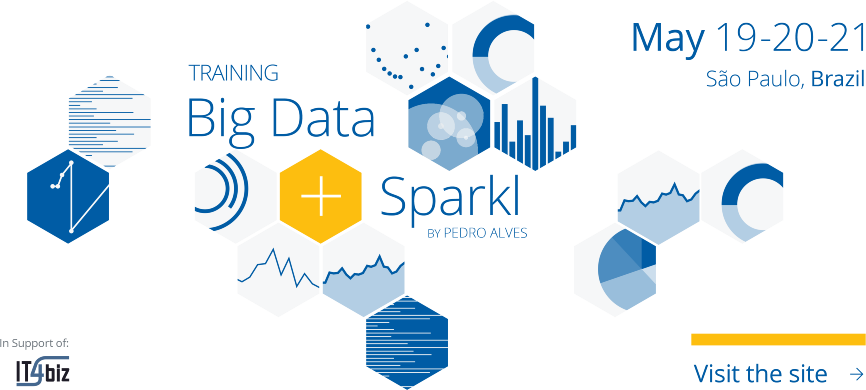
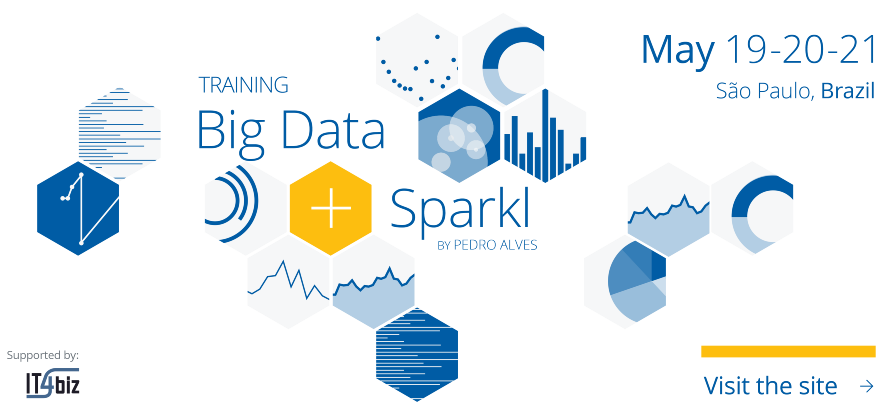
added development guide links, replaced bigdata_sparkl header image

diff --git a/marketplace/plugins/index.html b/marketplace/plugins/index.html
@@ -139,7 +139,8 @@
                         <div>
                           <img src="../../img/marketplace-register.png" alt="">
                           <p class="submit-title">Submit your plugins</p>
-                          <p class="submit-description">Simple and quick.<br><a href="https://github.com/pentaho/marketplace-metadata" target="_blank">View info</a></p>
+                          <p class="submit-description">Simple and quick.
+                            <br><a href="https://github.com/pentaho/marketplace-metadata" target="_blank">View info</a></p>
                         </div>
                       </div>
                     </div>
@@ -160,6 +161,14 @@
                           <p class="submit-description">All support you need.<br><a href="http://forums.pentaho.com/forumdisplay.php?289-BI-Platform-Developer" target="_blank">Forums</a></p>
                         </div>
                       </div>
+                    </div>
+                  </div>
+                  <div class="row text-center newLanguage background-grey" style="margin-bottom: 30px;" id="startNewLang">
+                    <div class="col-lg-8 col-lg-offset-1">
+                      <p>Check the Development Standards, Guidelines and Best Practices</p>
+                    </div>
+                    <div class="col-lg-3">
+                      <a href="http://wiki.pentaho.com/display/PEOpen/Development+Standards%2C+Guidelines+and+Best+Practices" class="btn btn-default btn-green" id="getStartedPropose" target="_blank">Development Guide</a>
                     </div>
                   </div>
                 </div>
@@ -213,7 +222,6 @@
                             <div>
                               <img src="../../img/marketplace-how-to.png" alt="">
                               <p class="submit-title">Develop plugins</p>
-                              <p class="submit-description">All info to setup a new plugin.</p>
                               <p class="submit-description">All info to setup a new plugin.<br><a href="http://wiki.pentaho.com/display/ServerDoc2x/Developing+Plugins" target="_blank">View info</a></p>
                             </div>
                           </div>
@@ -223,7 +231,9 @@
                             <div>
                               <img src="../../img/marketplace-register.png" alt="">
                               <p class="submit-title">Submit your plugins</p>
-                              <p class="submit-description">Simple and quick.<br><a href="https://github.com/pentaho/marketplace-metadata" target="_blank">View info</a></p>
+                              <p class="submit-description">Simple and quick.
+                                <br><a href="http://wiki.pentaho.com/display/PEOpen/Development+Standards%2C+Guidelines+and+Best+Practices" target="_blank">Development Guide</a>
+                                <br><a href="https://github.com/pentaho/marketplace-metadata" target="_blank">View info</a></p>
                             </div>
                           </div>
                         </div>
@@ -244,6 +254,14 @@
                               <p class="submit-description">All support you need.<br><a href="http://forums.pentaho.com/forumdisplay.php?289-BI-Platform-Developer" target="_blank">Forums</a></p>
                             </div>
                           </div>
+                        </div>
+                      </div>
+                      <div class="row text-center newLanguage background-grey" style="margin-bottom: 20px;" id="startNewLang">
+                        <div class="col-lg-8 col-lg-offset-1">
+                          <p>Check the Development Standards, Guidelines and Best Practices</p>
+                        </div>
+                        <div class="col-lg-3">
+                          <a href="http://wiki.pentaho.com/display/PEOpen/Development+Standards%2C+Guidelines+and+Best+Practices" class="btn btn-default btn-green" id="getStartedPropose" target="_blank">Development Guide</a>
                         </div>
                       </div>
                     </div>

diff --git a/marketplace/project-maturity-classification/index.html b/marketplace/project-maturity-classification/index.html
@@ -151,11 +151,14 @@
                     </div>
                   </div> 
                   <div class="row text-center newLanguage background-grey" id="startNewLang">
-                    <div class="col-lg-8 col-lg-offset-1">
+                    <div class="col-lg-5 col-lg-offset-1">
                       <p>Submit your Plugin Today</p>
                     </div>
                     <div class="col-lg-3">
                       <a href="https://github.com/pentaho/marketplace-metadata" class="btn btn-default btn-green" id="getStartedPropose" target="_blank">Learn more</a>
+                    </div>
+                    <div class="col-lg-3">
+                      <a href="http://wiki.pentaho.com/display/PEOpen/Development+Standards%2C+Guidelines+and+Best+Practices" class="btn btn-default btn-green" id="getStartedPropose" target="_blank">Development Guide</a>
                     </div>
                   </div>                
                 </div>
@@ -214,11 +217,14 @@
                     </div>
                   </div> 
                   <div class="row text-center newLanguage background-grey" id="startNewLang">
-                    <div class="col-lg-8 col-lg-offset-1">
+                    <div class="col-lg-5 col-lg-offset-1">
                       <p>Submit your Plugin Today</p>
                     </div>
                     <div class="col-lg-3">
                       <a href="https://github.com/pentaho/marketplace-metadata" class="btn btn-default btn-green" id="getStartedPropose" target="_blank">Learn more</a>
+                    </div>
+                    <div class="col-lg-3">
+                      <a href="http://wiki.pentaho.com/display/PEOpen/Development+Standards%2C+Guidelines+and+Best+Practices" class="btn btn-default btn-green" id="getStartedPropose" target="_blank">Development Guide</a>
                     </div>
                   </div>  
                 </div>
@@ -290,11 +296,14 @@
                         </div>
                       </div> 
                       <div class="row text-center newLanguage background-grey" id="startNewLang">
-                        <div class="col-lg-8 col-lg-offset-1">
+                        <div class="col-lg-5 col-lg-offset-1">
                           <p>Submit your Plugin Today</p>
                         </div>
                         <div class="col-lg-3">
                           <a href="https://github.com/pentaho/marketplace-metadata" class="btn btn-default btn-green" id="getStartedPropose" target="_blank">Learn more</a>
+                        </div>
+                        <div class="col-lg-3">
+                          <a href="http://wiki.pentaho.com/display/PEOpen/Development+Standards%2C+Guidelines+and+Best+Practices" class="btn btn-default btn-green" id="getStartedPropose" target="_blank">Development Guide</a>
                         </div>
                       </div> 
                     </div>
@@ -366,11 +375,14 @@
                         </div>
                       </div> 
                       <div class="row text-center newLanguage background-grey" id="startNewLang">
-                        <div class="col-lg-8 col-lg-offset-1">
+                        <div class="col-lg-5 col-lg-offset-1">
                           <p>Submit your Plugin Today</p>
                         </div>
                         <div class="col-lg-3">
                           <a href="https://github.com/pentaho/marketplace-metadata" class="btn btn-default btn-green" id="getStartedPropose" target="_blank">Learn more</a>
+                        </div>
+                        <div class="col-lg-3">
+                          <a href="http://wiki.pentaho.com/display/PEOpen/Development+Standards%2C+Guidelines+and+Best+Practices" class="btn btn-default btn-green" id="getStartedPropose" target="_blank">Development Guide</a>
                         </div>
                       </div> 
                     </div>

diff --git a/index.html b/index.html
@@ -151,7 +151,8 @@
                     </div>
                     <div class="col-lg-4 info-bar">
                       <h1>Info</h1>
-                      <a target="_blank" href="http://community.pentaho.com/contributors/contributor_agreement.php">Contributor Agreement</a>
+                      <a target="_blank" href="http://community.pentaho.com/contributors/contributor_agreement.php">Contributor Agreement</a><br>
+                      <a target="_blank" href="http://wiki.pentaho.com/display/PEOpen/Development+Standards%2C+Guidelines+and+Best+Practices">Development Guide</a>
                     </div>
                   </div>
                   <div class="row secondRow" id="whats-new-images">

diff --git a/css/main.css b/css/main.css
@@ -1774,6 +1774,11 @@ a.btn-gray:active {
   .forkDetails {
     margin-bottom: 20px;
   }
+
+  #getStartedPropose {
+    margin-bottom: 10px;
+  }
+
 }
 
 code {
